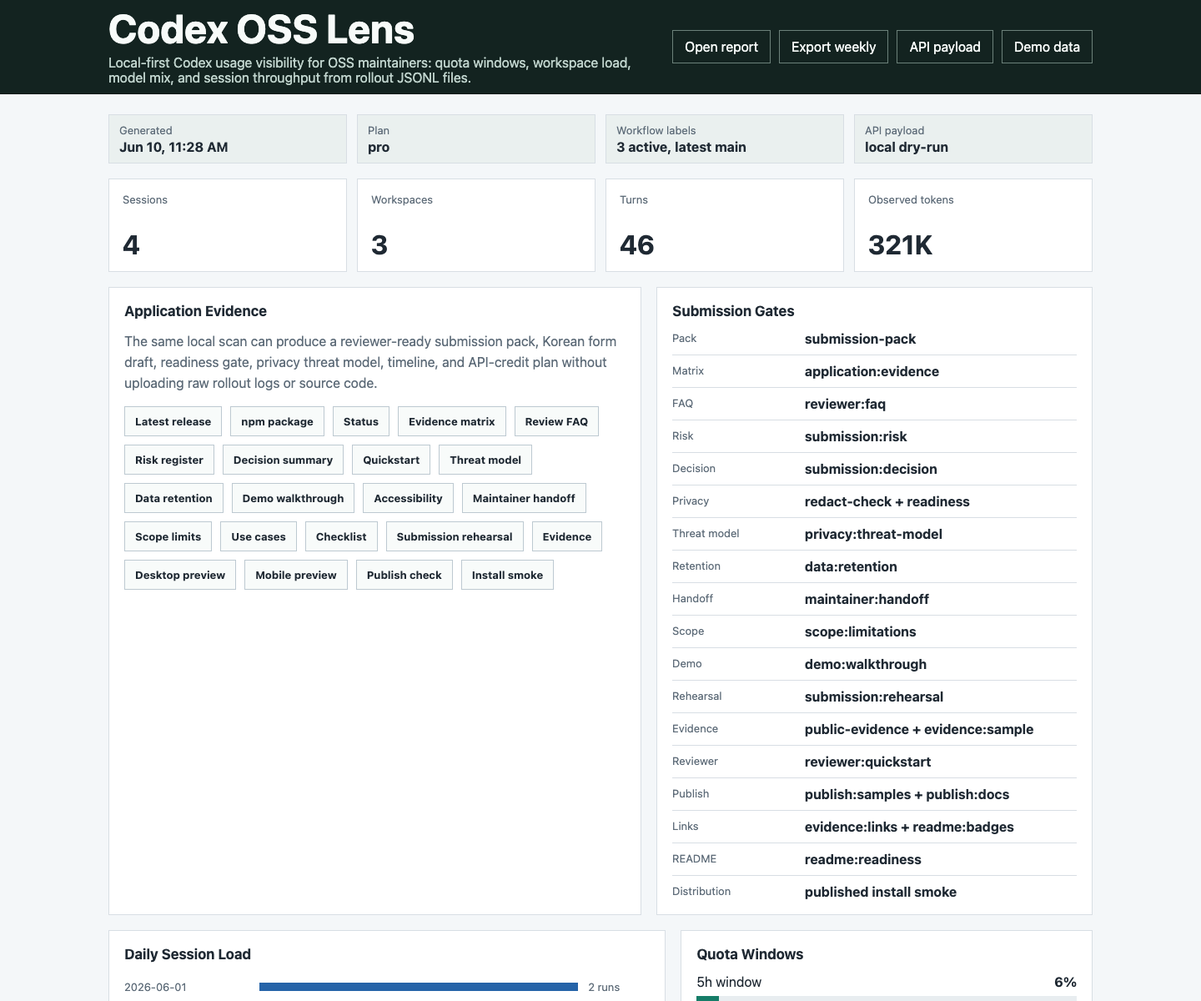
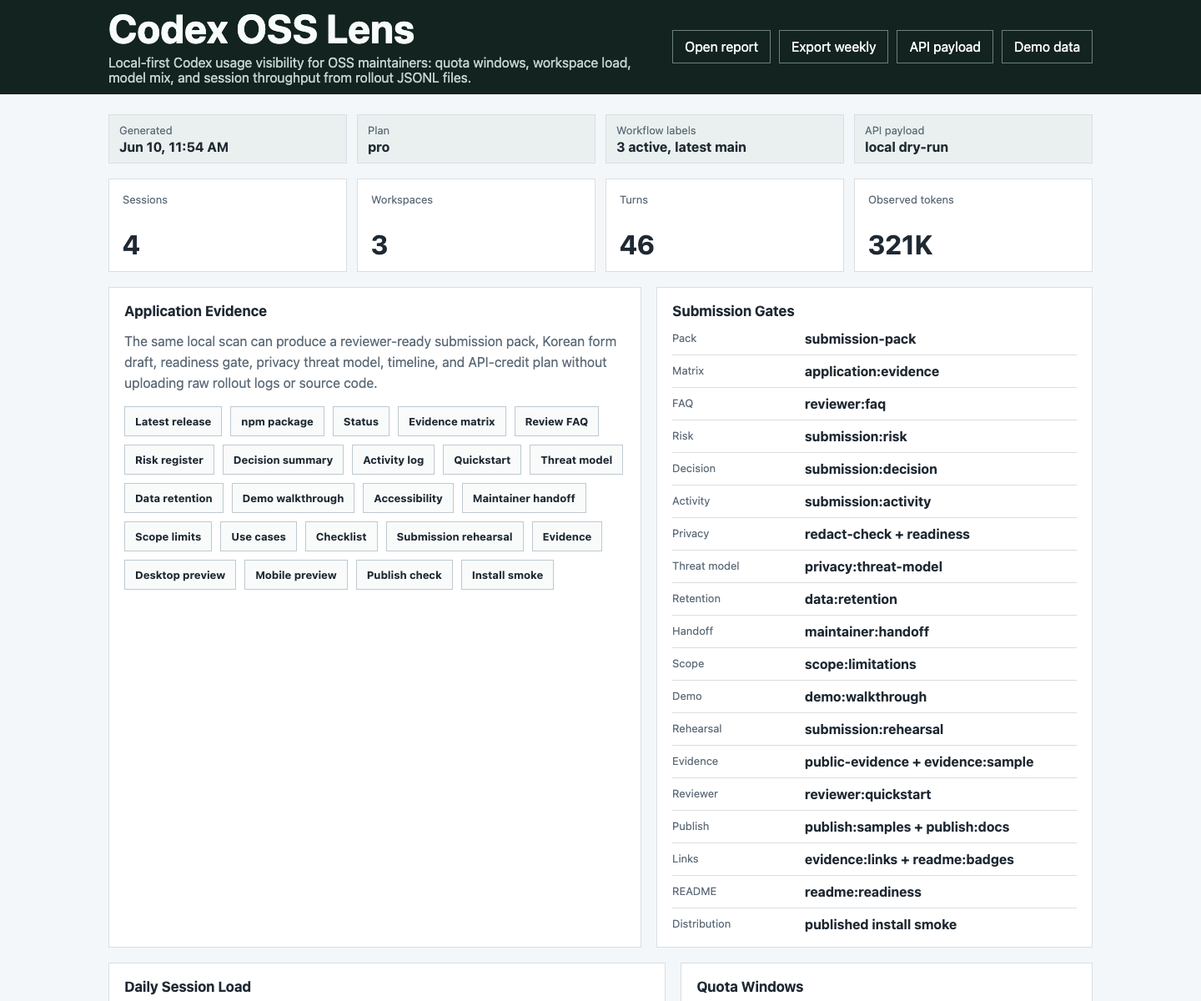
Make submission activity reviewable
Reviewers can now see recent application-readiness work without reconstructing it from commit history. This change adds a public submission activity log and wires it into the canonical evidence map, form drafts, dashboard evidence, README guidance, publishing docs, CI, and submission gates.

Constraint: The activity log should demonstrate active maintenance while still avoiding any claim of mature adoption for a young project.

Constraint: Local 1Password SSH signing agent remains unreliable, so this automation commit is unsigned.

Rejected: Leave activity evidence only in git log | reviewers need a short public page that maps recent work to reviewer value and local gates.

Confidence: high

Scope-risk: moderate

Directive: Keep docs/submission-activity-log.md, submission:activity, public evidence links, dashboard links, README guidance, and generated samples aligned whenever recent readiness evidence changes.

Tested: npm run submission:activity && npm run submission:decision && npm run application:status && npm run dashboard:readiness && npm run evidence:sample && npm run form-draft:sample && npm run final-copy:check && npm run reviewer:quickstart && npm run publish:docs && npm run readme:readiness && npm run ci:readiness && npm test && git diff --check
[…]

diff --git a/src/cli.js b/src/cli.js
@@ -184,6 +184,7 @@ async function main() {
         applicationReviewFaqUrl: options.applicationReviewFaqUrl,
         submissionRiskRegisterUrl: options.submissionRiskRegisterUrl,
         submissionDecisionSummaryUrl: options.submissionDecisionSummaryUrl,
+        submissionActivityLogUrl: options.submissionActivityLogUrl,
         reviewerQuickstartUrl: options.reviewerQuickstartUrl,
         releaseProvenanceUrl: options.releaseProvenanceUrl,
         adoptionPlanUrl: options.adoptionPlanUrl,
@@ -286,6 +287,7 @@ function parseArgs(args) {
     else if (arg === "--application-review-faq-url") options.applicationReviewFaqUrl = args[++i];
     else if (arg === "--submission-risk-register-url") options.submissionRiskRegisterUrl = args[++i];
     else if (arg === "--submission-decision-summary-url") options.submissionDecisionSummaryUrl = args[++i];
+    else if (arg === "--submission-activity-log-url") options.submissionActivityLogUrl = args[++i];
     else if (arg === "--reviewer-quickstart-url") options.reviewerQuickstartUrl = args[++i];
     else if (arg === "--release-provenance-url") options.releaseProvenanceUrl = args[++i];
     else if (arg === "--adoption-plan-url") options.adoptionPlanUrl = args[++i];
@@ -405,11 +407,11 @@ Usage:
   codex-oss-lens scorecard --manifest manifest.json [--readiness readiness.json] [--api-plan api-plan.json] [--timeline timeline.json] [--out scorecard.json] [--markdown scorecard.md]
   codex-oss-lens evidence-index --manifest manifest.json [--readiness readiness.json] [--api-plan api-plan.json] [--timeline timeline.json] [--scorecard scorecard.json] [--form-draft form-draft.json] [--out evidence-index.json] [--markdown evidence-index.md] [--html evidence-index.html]
   codex-oss-lens submission-pack [--codex-home ~/.codex] [--repo owner/name] [--out-dir codex-submission-pack] [--demo]
-  codex-oss-lens form-draft --manifest manifest.json [--readiness readiness.json] [--api-plan api-plan.json] [--scorecard scorecard.json] [--repo url] [--release-url url] [--npm-package url] [--roadmap-url url] [--application-status-url url] [--application-evidence-matrix-url url] [--application-review-faq-url url] [--submission-risk-register-url url] [--submission-decision-summary-url url] [--reviewer-quickstart-url url] [--release-provenance-url url] [--adoption-plan-url url] [--maintenance-policy-url url] [--maintainer-handoff-url url] [--scope-limitations-url url] [--privacy-threat-model-url url] [--data-retention-url url] [--demo-walkthrough-url url] [--accessibility-url url] [--api-workflow-url url] [--use-cases-url url] [--final-checklist-url url] [--submission-rehearsal-url url] [--final-copy-url url] [--form-draft-sample-url url] [--public-evidence-sample-url url] [--dashboard-preview-url url] [--mobile-dashboard-preview-url url] [--publish-check-sample-url url] [--install-smoke-sample-url url] [--node-ci-url url] [--published-smoke-url url] [--out form-draft.json] [--markdown form-draft.md]
+  codex-oss-lens form-draft --manifest manifest.json [--readiness readiness.json] [--api-plan api-plan.json] [--scorecard scorecard.json] [--repo url] [--release-url url] [--npm-package url] [--roadmap-url url] [--application-status-url url] [--application-evidence-matrix-url url] [--application-review-faq-url url] [--submission-risk-register-url url] [--submission-decision-summary-url url] [--submission-activity-log-url url] [--reviewer-quickstart-url url] [--release-provenance-url url] [--adoption-plan-url url] [--maintenance-policy-url url] [--maintainer-handoff-url url] [--scope-limitations-url url] [--privacy-threat-model-url url] [--data-retention-url url] [--demo-walkthrough-url url] [--accessibility-url url] [--api-workflow-url url] [--use-cases-url url] [--final-checklist-url url] [--submission-rehearsal-url url] [--final-copy-url url] [--form-draft-sample-url url] [--public-evidence-sample-url url] [--dashboard-preview-url url] [--mobile-dashboard-preview-url url] [--publish-check-sample-url url] [--install-smoke-sample-url url] [--node-ci-url url] [--published-smoke-url url] [--out form-draft.json] [--markdown form-draft.md]
   codex-oss-lens pack-validate <submission-pack-dir> [--min-score 75] [--out pack-validation.json] [--markdown pack-validation.md]
   codex-oss-lens publish-check [--package-json package.json] [--out publish-check.json] [--markdown publish-check.md]
   codex-oss-lens install-smoke [--package codex-oss-lens] [--version latest] [--bin codex-oss-lens] [--out install-smoke.json] [--markdown install-smoke.md]
-  codex-oss-lens public-evidence [--repo url] [--release-url url] [--npm-package url] [--roadmap-url url] [--application-status-url url] [--application-evidence-matrix-url url] [--application-review-faq-url url] [--submission-risk-register-url url] [--submission-decision-summary-url url] [--reviewer-quickstart-url url] [--release-provenance-url url] [--adoption-plan-url url] [--maintenance-policy-url url] [--maintainer-handoff-url url] [--scope-limitations-url url] [--privacy-threat-model-url url] [--data-retention-url url] [--demo-walkthrough-url url] [--accessibility-url url] [--api-workflow-url url] [--use-cases-url url] [--final-checklist-url url] [--submission-rehearsal-url url] [--final-copy-url url] [--form-draft-sample-url url] [--public-evidence-sample-url url] [--dashboard-preview-url url] [--mobile-dashboard-preview-url url] [--publish-check-sample-url url] [--install-smoke-sample-url url] [--node-ci-url url] [--published-smoke-url url] [--out public-evidence.json] [--markdown public-evidence.md]
+  codex-oss-lens public-evidence [--repo url] [--release-url url] [--npm-package url] [--roadmap-url url] [--application-status-url url] [--application-evidence-matrix-url url] [--application-review-faq-url url] [--submission-risk-register-url url] [--submission-decision-summary-url url] [--submission-activity-log-url url] [--reviewer-quickstart-url url] [--release-provenance-url url] [--adoption-plan-url url] [--maintenance-policy-url url] [--maintainer-handoff-url url] [--scope-limitations-url url] [--privacy-threat-model-url url] [--data-retention-url url] [--demo-walkthrough-url url] [--accessibility-url url] [--api-workflow-url url] [--use-cases-url url] [--final-checklist-url url] [--submission-rehearsal-url url] [--final-copy-url url] [--form-draft-sample-url url] [--public-evidence-sample-url url] [--dashboard-preview-url url] [--mobile-dashboard-preview-url url] [--publish-check-sample-url url] [--install-smoke-sample-url url] [--node-ci-url url] [--published-smoke-url url] [--out public-evidence.json] [--markdown public-evidence.md]
   codex-oss-lens serve [--codex-home ~/.codex] [--port 5057] [--demo]
   codex-oss-lens demo [--out report.json]
 

diff --git a/test/public-evidence.test.js b/test/public-evidence.test.js
@@ -17,6 +17,7 @@ test("builds public evidence with required links and manual fields", () => {
   assert.match(evidence.publicLinks.applicationReviewFaqUrl, /docs\/application-review-faq\.md$/);
   assert.match(evidence.publicLinks.submissionRiskRegisterUrl, /docs\/submission-risk-register\.md$/);
   assert.match(evidence.publicLinks.submissionDecisionSummaryUrl, /docs\/submission-decision-summary\.md$/);
+  assert.match(evidence.publicLinks.submissionActivityLogUrl, /docs\/submission-activity-log\.md$/);
   assert.match(evidence.publicLinks.reviewerQuickstartUrl, /docs\/reviewer-quickstart\.md$/);
   assert.match(evidence.publicLinks.releaseProvenanceUrl, /docs\/release-provenance\.md$/);
   assert.match(evidence.publicLinks.adoptionPlanUrl, /docs\/adoption-plan\.md$/);
@@ -34,6 +35,7 @@ test("builds public evidence with required links and manual fields", () => {
   assert.ok(evidence.proofPoints.some((item) => item.id === "applicationReviewFaq"));
   assert.ok(evidence.proofPoints.some((item) => item.id === "submissionRiskRegister"));
   assert.ok(evidence.proofPoints.some((item) => item.id === "submissionDecisionSummary"));
+  assert.ok(evidence.proofPoints.some((item) => item.id === "submissionActivityLog"));
   assert.ok(evidence.proofPoints.some((item) => item.id === "reviewerQuickstart"));
   assert.ok(evidence.proofPoints.some((item) => item.id === "releaseProvenance"));
   assert.ok(evidence.proofPoints.some((item) => item.id === "adoptionPlan"));
@@ -93,6 +95,8 @@ test("CLI accepts reviewer link overrides for public evidence", async () => {
     "https://github.com/example/project/blob/main/docs/submission-risk-register.md",
     "--submission-decision-summary-url",
     "https://github.com/example/project/blob/main/docs/submission-decision-summary.md",
+    "--submission-activity-log-url",
+    "https://github.com/example/project/blob/main/docs/submission-activity-log.md",
     "--reviewer-quickstart-url",
     "https://github.com/example/project/blob/main/docs/reviewer-quickstart.md",
     "--release-provenance-url",
@@ -149,6 +153,7 @@ test("CLI accepts reviewer link overrides for public evidence", async () => {
   assert.equal(evidence.publicLinks.applicationReviewFaqUrl, "https://github.com/example/project/blob/main/docs/application-review-faq.md");
   assert.equal(evidence.publicLinks.submissionRiskRegisterUrl, "https://github.com/example/project/blob/main/docs/submission-risk-register.md");
   assert.equal(evidence.publicLinks.submissionDecisionSummaryUrl, "https://github.com/example/project/blob/main/docs/submission-decision-summary.md");
+  assert.equal(evidence.publicLinks.submissionActivityLogUrl, "https://github.com/example/project/blob/main/docs/submission-activity-log.md");
   assert.equal(evidence.publicLinks.reviewerQuickstartUrl, "https://github.com/example/project/blob/main/docs/reviewer-quickstart.md");
   assert.equal(evidence.publicLinks.releaseProvenanceUrl, "https://github.com/example/project/blob/main/docs/release-provenance.md");
   assert.equal(evidence.publicLinks.adoptionPlanUrl, "https://github.com/example/project/blob/main/docs/adoption-plan.md");

diff --git a/scripts/check-submission-activity-log.js b/scripts/check-submission-activity-log.js
@@ -1,0 +1,56 @@
+#!/usr/bin/env node
+import { promises as fs } from "node:fs";
+
+const files = {
+  log: await fs.readFile("docs/submission-activity-log.md", "utf8"),
+  status: await fs.readFile("docs/application-status.md", "utf8"),
+  reviewer: await fs.readFile("docs/reviewer-quickstart.md", "utf8"),
+  checklist: await fs.readFile("docs/final-submission-checklist.md", "utf8"),
+  readme: await fs.readFile("README.md", "utf8"),
+  dashboard: await fs.readFile("public/index.html", "utf8"),
+  workflow: await fs.readFile(".github/workflows/test.yml", "utf8"),
+  publishing: await fs.readFile("docs/npm-publishing.md", "utf8"),
+  publishChecklist: await fs.readFile("application/publish-checklist.md", "utf8"),
+};
+let failures = 0;
+
+requireText("log", "# Submission Activity Log", "title");
+requireText("log", "Recent Readiness Work", "recent work section");
+requireText("log", "1fd7286", "decision summary commit");
+requireText("log", "3e4a87f", "risk register commit");
+requireText("log", "a0f9fc9", "review FAQ commit");
+requireText("log", "0abb620", "evidence matrix commit");
+requireText("log", "3a6fefe", "scope limitations commit");
+requireText("log", "active readiness work", "young-project signal");
+requireText("log", "npm run submission:activity", "self gate command");
+requireText("log", "npm run submission:check", "submission check command");
+requireText("log", "codex-oss-lens@1.6.1", "published package boundary");
+requireText("status", "Submission activity log | Ready", "application status row");
+requireText("status", "npm run submission:activity", "application status command");
+requireText("reviewer", "docs/submission-activity-log.md", "reviewer activity link");
+requireText("checklist", "docs/submission-activity-log.md", "final checklist activity link");
+requireText("checklist", "npm run submission:activity", "final checklist gate");
+requireText("readme", "docs/submission-activity-log.md", "README activity link");
+requireText("readme", "npm run submission:activity", "README activity gate");
+requireText("dashboard", "docs/submission-activity-log.md", "dashboard activity link");
+requireText("dashboard", "Activity log", "dashboard activity label");
+requireText("dashboard", "submission:activity", "dashboard activity gate");
+requireText("workflow", "npm run submission:activity", "CI activity gate");
+requireText("publishing", "npm run submission:activity", "publishing docs activity gate");
+requireText("publishChecklist", "submission:activity", "publish checklist activity gate");
+
+if (failures) {
+  console.error(`Submission activity log check failed for ${failures} requirement(s).`);
+  process.exit(1);
+}
+
+console.log("pass submissionActivityLog");
+
+function requireText(fileKey, needle, label) {
+  if (files[fileKey].includes(needle)) {
+    console.log(`pass ${label}`);
+    return;
+  }
+  console.error(`fail missing ${label}: ${needle}`);
+  failures += 1;
+}

diff --git a/src/public-evidence.js b/src/public-evidence.js
@@ -8,6 +8,7 @@ const DEFAULTS = {
   applicationReviewFaqUrl: "https://github.com/dbunk903/codex-oss-lens/blob/main/docs/application-review-faq.md",
   submissionRiskRegisterUrl: "https://github.com/dbunk903/codex-oss-lens/blob/main/docs/submission-risk-register.md",
   submissionDecisionSummaryUrl: "https://github.com/dbunk903/codex-oss-lens/blob/main/docs/submission-decision-summary.md",
+  submissionActivityLogUrl: "https://github.com/dbunk903/codex-oss-lens/blob/main/docs/submission-activity-log.md",
   reviewerQuickstartUrl: "https://github.com/dbunk903/codex-oss-lens/blob/main/docs/reviewer-quickstart.md",
   releaseProvenanceUrl: "https://github.com/dbunk903/codex-oss-lens/blob/main/docs/release-provenance.md",
   adoptionPlanUrl: "https://github.com/dbunk903/codex-oss-lens/blob/main/docs/adoption-plan.md",
@@ -60,6 +61,7 @@ export function buildPublicEvidence(options = {}) {
       proof("applicationReviewFaq", "Application review FAQ answers young-project, public-proof, manual-submit, privacy, package, and API-credit questions.", links.applicationReviewFaqUrl),
       proof("submissionRiskRegister", "Submission risk register lists application risks, mitigations, and local gates.", links.submissionRiskRegisterUrl),
       proof("submissionDecisionSummary", "Submission decision summary condenses Go/Stop evidence for account-owner review.", links.submissionDecisionSummaryUrl),
+      proof("submissionActivityLog", "Submission activity log shows recent public readiness work and the gates behind it.", links.submissionActivityLogUrl),
       proof("reviewerQuickstart", "Reviewer quickstart gives public-only verification steps.", links.reviewerQuickstartUrl),
       proof("releaseProvenance", "Release provenance ties GitHub release, npm package, CI, and privacy gates together.", links.releaseProvenanceUrl),
       proof("adoptionPlan", "Adoption plan documents public validation without asking for private Codex content.", links.adoptionPlanUrl),
@@ -104,6 +106,7 @@ function compactLinks(options) {
     ...(options.applicationReviewFaqUrl ? { applicationReviewFaqUrl: options.applicationReviewFaqUrl } : {}),
     ...(options.submissionRiskRegisterUrl ? { submissionRiskRegisterUrl: options.submissionRiskRegisterUrl } : {}),
     ...(options.submissionDecisionSummaryUrl ? { submissionDecisionSummaryUrl: options.submissionDecisionSummaryUrl } : {}),
+    ...(options.submissionActivityLogUrl ? { submissionActivityLogUrl: options.submissionActivityLogUrl } : {}),
     ...(options.reviewerQuickstartUrl ? { reviewerQuickstartUrl: options.reviewerQuickstartUrl } : {}),
     ...(options.releaseProvenanceUrl ? { releaseProvenanceUrl: options.releaseProvenanceUrl } : {}),
     ...(options.adoptionPlanUrl ? { adoptionPlanUrl: options.adoptionPlanUrl } : {}),

diff --git a/test/form-draft.test.js b/test/form-draft.test.js
@@ -26,6 +26,7 @@ test("builds copy-ready Korean OSS support form draft", () => {
       applicationReviewFaqUrl: "https://github.com/dbunk903/codex-oss-lens/blob/main/docs/application-review-faq.md",
       submissionRiskRegisterUrl: "https://github.com/dbunk903/codex-oss-lens/blob/main/docs/submission-risk-register.md",
       submissionDecisionSummaryUrl: "https://github.com/dbunk903/codex-oss-lens/blob/main/docs/submission-decision-summary.md",
+      submissionActivityLogUrl: "https://github.com/dbunk903/codex-oss-lens/blob/main/docs/submission-activity-log.md",
       adoptionPlanUrl: "https://github.com/dbunk903/codex-oss-lens/blob/main/docs/adoption-plan.md",
       maintenancePolicyUrl: "https://github.com/dbunk903/codex-oss-lens/blob/main/docs/maintenance-policy.md",
       maintainerHandoffUrl: "https://github.com/dbunk903/codex-oss-lens/blob/main/docs/maintainer-handoff.md",
@@ -46,6 +47,7 @@ test("builds copy-ready Korean OSS support form draft", () => {
   assert.equal(draft.publicLinks.applicationReviewFaq, "https://github.com/dbunk903/codex-oss-lens/blob/main/docs/application-review-faq.md");
   assert.equal(draft.publicLinks.submissionRiskRegister, "https://github.com/dbunk903/codex-oss-lens/blob/main/docs/submission-risk-register.md");
   assert.equal(draft.publicLinks.submissionDecisionSummary, "https://github.com/dbunk903/codex-oss-lens/blob/main/docs/submission-decision-summary.md");
+  assert.equal(draft.publicLinks.submissionActivityLog, "https://github.com/dbunk903/codex-oss-lens/blob/main/docs/submission-activity-log.md");
   assert.equal(draft.publicLinks.adoptionPlan, "https://github.com/dbunk903/codex-oss-lens/blob/main/docs/adoption-plan.md");
   assert.equal(draft.publicLinks.maintenancePolicy, "https://github.com/dbunk903/codex-oss-lens/blob/main/docs/maintenance-policy.md");
   assert.equal(draft.publicLinks.maintainerHandoff, "https://github.com/dbunk903/codex-oss-lens/blob/main/docs/maintainer-handoff.md");

diff --git a/public/index.html b/public/index.html
@@ -439,6 +439,7 @@
               <a class="link-button" href="https://github.com/dbunk903/codex-oss-lens/blob/main/docs/application-review-faq.md">Review FAQ</a>
               <a class="link-button" href="https://github.com/dbunk903/codex-oss-lens/blob/main/docs/submission-risk-register.md">Risk register</a>
               <a class="link-button" href="https://github.com/dbunk903/codex-oss-lens/blob/main/docs/submission-decision-summary.md">Decision summary</a>
+              <a class="link-button" href="https://github.com/dbunk903/codex-oss-lens/blob/main/docs/submission-activity-log.md">Activity log</a>
               <a class="link-button" href="https://github.com/dbunk903/codex-oss-lens/blob/main/docs/reviewer-quickstart.md">Quickstart</a>
               <a class="link-button" href="https://github.com/dbunk903/codex-oss-lens/blob/main/docs/privacy-threat-model.md">Threat model</a>
               <a class="link-button" href="https://github.com/dbunk903/codex-oss-lens/blob/main/docs/data-retention.md">Data retention</a>
@@ -464,6 +465,7 @@
               <li><span class="label">FAQ</span><strong>reviewer:faq</strong></li>
               <li><span class="label">Risk</span><strong>submission:risk</strong></li>
               <li><span class="label">Decision</span><strong>submission:decision</strong></li>
+              <li><span class="label">Activity</span><strong>submission:activity</strong></li>
               <li><span class="label">Privacy</span><strong>redact-check + readiness</strong></li>
               <li><span class="label">Threat model</span><strong>privacy:threat-model</strong></li>
               <li><span class="label">Retention</span><strong>data:retention</strong></li>

diff --git a/scripts/check-readme-readiness.js b/scripts/check-readme-readiness.js
@@ -11,6 +11,7 @@ requireText("npm run application:evidence", "application evidence matrix gate");
 requireText("npm run reviewer:faq", "application review FAQ gate");
 requireText("npm run submission:risk", "submission risk register gate");
 requireText("npm run submission:decision", "submission decision summary gate");
+requireText("npm run submission:activity", "submission activity log gate");
 requireText("npm run reviewer:quickstart", "reviewer quickstart gate");
 requireText("npm run form-draft:sample", "form draft sample gate");
 requireText("npm run publish:samples", "publish samples gate");
@@ -40,6 +41,7 @@ requireText("docs/application-evidence-matrix.md", "application evidence matrix 
 requireText("docs/application-review-faq.md", "application review FAQ link");
 requireText("docs/submission-risk-register.md", "submission risk register link");
 requireText("docs/submission-decision-summary.md", "submission decision summary link");
+requireText("docs/submission-activity-log.md", "submission activity log link");
 requireText("docs/reviewer-quickstart.md", "reviewer quickstart link");
 requireText("docs/final-submission-checklist.md", "final checklist link");
 requireText("docs/release-provenance.md", "release provenance link");
@@ -72,6 +74,7 @@ for (const url of [
   evidence.publicLinks.applicationReviewFaqUrl,
   evidence.publicLinks.submissionRiskRegisterUrl,
   evidence.publicLinks.submissionDecisionSummaryUrl,
+  evidence.publicLinks.submissionActivityLogUrl,
   evidence.publicLinks.reviewerQuickstartUrl,
   evidence.publicLinks.dashboardPreviewUrl,
   evidence.publicLinks.mobileDashboardPreviewUrl,

diff --git a/scripts/check-publishing-docs.js b/scripts/check-publishing-docs.js
@@ -11,6 +11,7 @@ requirePublishingText("npm run application:evidence", "application evidence matr
 requirePublishingText("npm run reviewer:faq", "application review FAQ gate");
 requirePublishingText("npm run submission:risk", "submission risk register gate");
 requirePublishingText("npm run submission:decision", "submission decision summary gate");
+requirePublishingText("npm run submission:activity", "submission activity log gate");
 requirePublishingText("npm run reviewer:quickstart", "reviewer quickstart gate");
 requirePublishingText("npm run publish:samples", "publish samples gate");
 requirePublishingText("npm run contrib:readiness", "contribution readiness gate");
@@ -55,6 +56,7 @@ requireChecklistText("application:evidence", "application evidence matrix eviden
 requireChecklistText("reviewer:faq", "application review FAQ evidence");
 requireChecklistText("submission:risk", "submission risk register evidence");
 requireChecklistText("submission:decision", "submission decision summary evidence");
+requireChecklistText("submission:activity", "submission activity log evidence");
 requireChecklistText("publish:samples", "publish samples evidence");
 requireChecklistText("support:readiness", "support readiness evidence");
 requireChecklistText("conduct:readiness", "conduct readiness evidence");

diff --git a/scripts/check-dashboard-readiness.js b/scripts/check-dashboard-readiness.js
@@ -24,6 +24,9 @@ requireText("submission:risk", "dashboard risk register gate");
 requireText("docs/submission-decision-summary.md", "dashboard decision summary link");
 requireText("Decision summary", "dashboard decision summary label");
 requireText("submission:decision", "dashboard decision summary gate");
+requireText("docs/submission-activity-log.md", "dashboard activity log link");
+requireText("Activity log", "dashboard activity log label");
+requireText("submission:activity", "dashboard activity log gate");
 requireText("docs/accessibility.md", "dashboard accessibility link");
 requireText("Accessibility", "dashboard accessibility label");
 requireText("docs/data-retention.md", "dashboard data retention link");
@@ -58,6 +61,7 @@ for (const [label, url] of Object.entries({
   applicationReviewFaqUrl: evidence.publicLinks.applicationReviewFaqUrl,
   submissionRiskRegisterUrl: evidence.publicLinks.submissionRiskRegisterUrl,
   submissionDecisionSummaryUrl: evidence.publicLinks.submissionDecisionSummaryUrl,
+  submissionActivityLogUrl: evidence.publicLinks.submissionActivityLogUrl,
   reviewerQuickstartUrl: evidence.publicLinks.reviewerQuickstartUrl,
   privacyThreatModelUrl: evidence.publicLinks.privacyThreatModelUrl,
   maintainerHandoffUrl: evidence.publicLinks.maintainerHandoffUrl,

diff --git a/scripts/check-application-status.js b/scripts/check-application-status.js
@@ -21,6 +21,7 @@ requireText("npm run application:evidence", "application evidence matrix gate co
 requireText("npm run reviewer:faq", "application review FAQ gate command");
 requireText("npm run submission:risk", "submission risk register gate command");
 requireText("npm run submission:decision", "submission decision summary gate command");
+requireText("npm run submission:activity", "submission activity log gate command");
 requireText("npm run reviewer:quickstart", "reviewer quickstart gate command");
 requireText("npm run form-draft:sample", "form draft sample gate command");
 requireText("npm run publish:samples", "publish samples gate command");
@@ -52,6 +53,7 @@ requireText("Application evidence matrix | Ready", "application evidence matrix 
 requireText("Application review FAQ | Ready", "application review FAQ row");
 requireText("Submission risk register | Ready", "submission risk register row");
 requireText("Submission decision summary | Ready", "submission decision summary row");
+requireText("Submission activity log | Ready", "submission activity log row");
 requireText("Reviewer quickstart | Ready", "reviewer quickstart row");
 requireText("full reviewer link map", "form draft full link map");
 requireText("Form draft sample | Ready", "form draft sample row");

diff --git a/src/form-draft.js b/src/form-draft.js
@@ -20,6 +20,7 @@ export function buildFormDraft({ manifest, readiness, apiPlan, scorecard, links 
       applicationReviewFaq: links.applicationReviewFaqUrl || "",
       submissionRiskRegister: links.submissionRiskRegisterUrl || "",
       submissionDecisionSummary: links.submissionDecisionSummaryUrl || "",
+      submissionActivityLog: links.submissionActivityLogUrl || "",
       reviewerQuickstart: links.reviewerQuickstartUrl || "",
       releaseProvenance: links.releaseProvenanceUrl || "",
       adoptionPlan: links.adoptionPlanUrl || "",
@@ -123,6 +124,7 @@ const PUBLIC_LINK_LABELS = {
   applicationReviewFaq: "Application review FAQ",
   submissionRiskRegister: "Submission risk register",
   submissionDecisionSummary: "Submission decision summary",
+  submissionActivityLog: "Submission activity log",
   reviewerQuickstart: "Reviewer quickstart",
   releaseProvenance: "Release provenance",
   adoptionPlan: "Adoption plan",

diff --git a/scripts/check-ci-readiness.js b/scripts/check-ci-readiness.js
@@ -20,6 +20,7 @@ requireText("npm run application:evidence", "application evidence matrix check")
 requireText("npm run reviewer:faq", "application review FAQ check");
 requireText("npm run submission:risk", "submission risk register check");
 requireText("npm run submission:decision", "submission decision summary check");
+requireText("npm run submission:activity", "submission activity log check");
 requireText("npm run reviewer:quickstart", "reviewer quickstart check");
 requireText("npm run form-draft:sample", "form draft sample check");
 requireText("npm run publish:samples", "publish samples check");
